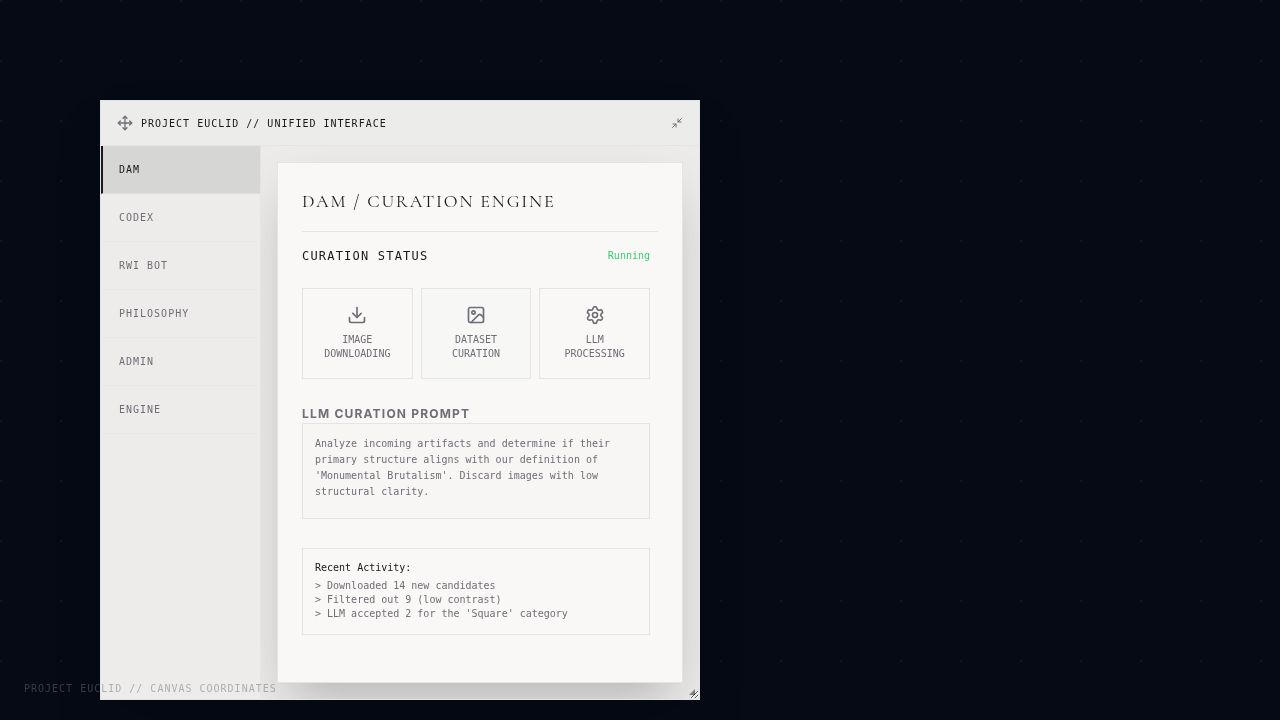
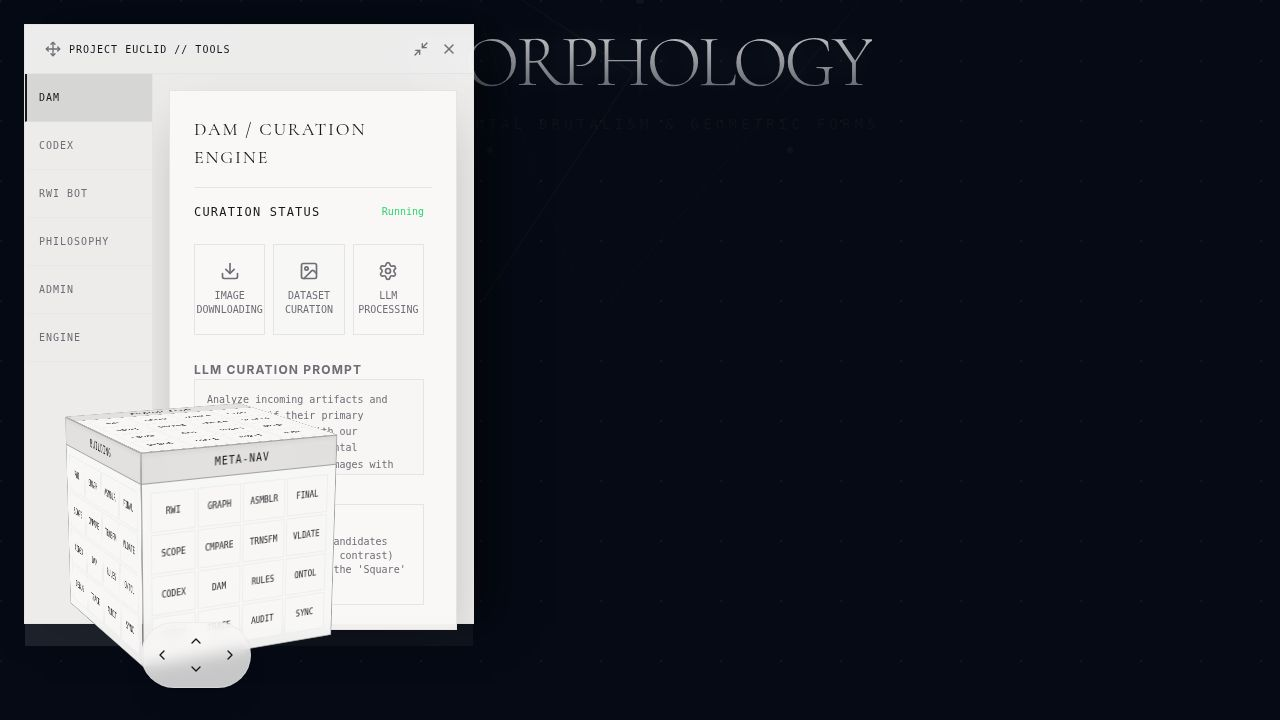
Introduce a 3D prism for tool selection and a dock for output display
Replace the static CentralPanel with a 3D PrismCube component for workspace/tool selection and implement a DockContainer for displaying agent outputs, updating the InfiniteCanvas and studio state management accordingly.

Replit-Commit-Author: Agent
Replit-Commit-Session-Id: 0d00d434-be47-4a2b-b53d-cc99ae812125
Replit-Commit-Checkpoint-Type: full_checkpoint
Replit-Commit-Event-Id: 81c192f9-09c1-4802-bd40-0a1dae0036b8
Replit-Commit-Screenshot-Url: https://storage.googleapis.com/screenshot-production-us-central1/83ee72e2-2eb7-40ef-ab99-fc5b93d9bf2b/0d00d434-be47-4a2b-b53d-cc99ae812125/BEu81Bt
Replit-Helium-Checkpoint-Created: true

Changed region(s): [[0.0, 0.0306, 0.6875, 0.9778], [0.125, 0.7639, 0.1562, 0.825], [0.625, 0.0306, 0.6562, 0.0611]]

diff --git a/client/src/studio/prism/PrismCube.tsx b/client/src/studio/prism/PrismCube.tsx
@@ -1,0 +1,89 @@
+import { useState } from 'react';
+import { useStudioStore } from '../state/useStudioStore';
+import { ChevronLeft, ChevronRight, ChevronUp, ChevronDown } from 'lucide-react';
+
+export function PrismCube() {
+  const { prismContext, setPrismContext } = useStudioStore();
+  
+  // Track continuous rotation to avoid snapping back when angles pass 360
+  const [rotation, setRotation] = useState({ x: -15, y: 25 });
+
+  const handleRotate = (direction: 'left' | 'right' | 'up' | 'down') => {
+    if (direction === 'left') setRotation(r => ({ ...r, y: r.y - 90 }));
+    if (direction === 'right') setRotation(r => ({ ...r, y: r.y + 90 }));
+    if (direction === 'up') setRotation(r => ({ ...r, x: r.x + 90 }));
+    if (direction === 'down') setRotation(r => ({ ...r, x: r.x - 90 }));
+  };
+
+  const faces = [
+    { id: 'meta-navigation', label: 'Meta-Nav', transform: 'translateZ(100px)' },
+    { id: 'research-drafting', label: 'Research', transform: 'rotateY(90deg) translateZ(100px)' },
+    { id: 'drafting-building', label: 'Drafting', transform: 'rotateY(180deg) translateZ(100px)' },
+    { id: 'building-production', label: 'Building', transform: 'rotateY(-90deg) translateZ(100px)' },
+    { id: 'production-final', label: 'Production', transform: 'rotateX(90deg) translateZ(100px)' },
+    { id: 'inspect-repair-debug', label: 'Debug', transform: 'rotateX(-90deg) translateZ(100px)' },
+  ];
+
+  // Tool sets (engines x functionalities) mapping to the 16 cubies
+  // E.g., RWI Bot, Codex, Assembler, etc.
+  const tools = [
+    "RWI", "Graph", "Asmblr", "Final",
+    "Scope", "Cmpare", "Trnsfm", "Vldate",
+    "Codex", "DAM", "Rules", "Ontol",
+    "Debug", "Trace", "Audit", "Sync"
+  ];
+
+  return (
+    <div 
+      className="fixed bottom-32 left-24 z-50 pointer-events-auto"
+      style={{ perspective: '1200px' }}
+    >
+      <div 
+        className="w-[200px] h-[200px] relative transition-transform duration-700 ease-out"
+        style={{ 
+          transformStyle: 'preserve-3d',
+          transform: `rotateX(${rotation.x}deg) rotateY(${rotation.y}deg)`
+        }}
+      >
+        {faces.map((face) => (
+          <div 
+            key={face.id}
+            className="absolute w-full h-full bg-background/95 border border-primary/40 backdrop-blur-md flex flex-col overflow-hidden shadow-[0_0_30px_rgba(var(--primary),0.1)]"
+            style={{ 
+              transform: face.transform,
+              backfaceVisibility: 'hidden'
+            }}
+          >
+            {/* Face Header */}
+            <div className="text-center font-mono text-[10px] uppercase tracking-widest text-primary bg-primary/10 border-b border-primary/30 py-1.5 shadow-inner">
+              {face.label}
+            </div>
+            
+            {/* 16 Cubies (4x4 Grid) */}
+            <div className="grid grid-cols-4 grid-rows-4 gap-[2px] flex-1 p-2 bg-muted/20">
+              {tools.map((tool, i) => (
+                <button 
+                  key={i} 
+                  className="bg-background/80 hover:bg-primary hover:text-primary-foreground border border-border/50 flex items-center justify-center text-[8px] font-mono transition-all duration-200 uppercase"
+                  onClick={() => console.log(`Triggered ${tool} on ${face.label}`)}
+                >
+                  {tool}
+                </button>
+              ))}
+            </div>
+          </div>
+        ))}
+      </div>
+
+      {/* Orbit Controls */}
+      <div className="absolute -bottom-16 left-1/2 -translate-x-1/2 flex gap-2 bg-background/80 backdrop-blur-sm border border-border/50 p-1.5 rounded-full shadow-xl">
+        <button onClick={() => handleRotate('left')} className="p-1.5 text-primary hover:bg-primary/20 rounded-full transition-colors"><ChevronLeft className="w-4 h-4" /></button>
+        <div className="flex flex-col gap-1">
+          <button onClick={() => handleRotate('up')} className="p-1 text-primary hover:bg-primary/20 rounded-full transition-colors"><ChevronUp className="w-4 h-4" /></button>
+          <button onClick={() => handleRotate('down')} className="p-1 text-primary hover:bg-primary/20 rounded-full transition-colors"><ChevronDown className="w-4 h-4" /></button>
+        </div>
+        <button onClick={() => handleRotate('right')} className="p-1.5 text-primary hover:bg-primary/20 rounded-full transition-colors"><ChevronRight className="w-4 h-4" /></button>
+      </div>
+    </div>
+  );
+}

diff --git a/client/src/studio/dock/DockContainer.tsx b/client/src/studio/dock/DockContainer.tsx
@@ -1,0 +1,44 @@
+import { useStudioStore } from '../state/useStudioStore';
+
+export function DockContainer() {
+  const { isDockVisible, toggleDock } = useStudioStore();
+
+  if (!isDockVisible) {
+    return (
+      <button 
+        onClick={toggleDock}
+        className="fixed bottom-4 left-1/2 -translate-x-1/2 px-4 py-2 bg-background/80 backdrop-blur border border-border/50 font-mono text-[10px] uppercase tracking-widest text-muted-foreground hover:text-primary transition-colors z-40"
+      >
+        Dock
+      </button>
+    );
+  }
+
+  return (
+    <div className="fixed bottom-0 left-0 right-0 h-48 bg-background/90 backdrop-blur-md border-t border-primary/20 z-40 flex flex-col pointer-events-auto transform transition-transform duration-300">
+      <div className="flex justify-between items-center px-4 py-2 border-b border-border/30">
+        <div className="font-mono text-[10px] uppercase tracking-widest text-primary/70">
+          Dock Viewer
+        </div>
+        <button 
+          onClick={toggleDock}
+          className="text-muted-foreground hover:text-primary transition-colors text-[10px] font-mono uppercase"
+        >
+          [Close]
+        </button>
+      </div>
+      <div className="flex-1 p-4 flex gap-4 overflow-x-auto">
+        {/* Placeholder for dock items/spawned content */}
+        <div className="h-full w-64 border border-dashed border-primary/20 flex items-center justify-center text-[10px] font-mono text-muted-foreground shrink-0">
+          [Empty Slot]
+        </div>
+        <div className="h-full w-64 border border-dashed border-primary/20 flex items-center justify-center text-[10px] font-mono text-muted-foreground shrink-0">
+          [Empty Slot]
+        </div>
+        <div className="h-full w-64 border border-dashed border-primary/20 flex items-center justify-center text-[10px] font-mono text-muted-foreground shrink-0">
+          [Empty Slot]
+        </div>
+      </div>
+    </div>
+  );
+}

diff --git a/client/src/components/canvas/InfiniteCanvas.tsx b/client/src/components/canvas/InfiniteCanvas.tsx
@@ -1,8 +1,8 @@
 import { useRef, useEffect, useState } from 'react';
 import { useSpring, animated } from '@react-spring/web';
 import { useGesture } from '@use-gesture/react';
-import { CentralPanel } from './panels/CentralPanel';
-import { PrismSelector } from '../../studio/prism/PrismSelector';
+import { PrismCube } from '../../studio/prism/PrismCube';
+import { DockContainer } from '../../studio/dock/DockContainer';
 
 export default function InfiniteCanvas() {
   const containerRef = useRef<HTMLDivElement>(null);
@@ -96,12 +96,16 @@ export default function InfiniteCanvas() {
         </div>
       </animated.div>
       
-      {/* Side Panel for Tools */}
-      <CentralPanel />
+      {/* 3D Prism Context Selector */}
+      <PrismCube />
       
-      {/* Bottom Left Prism Context Selector */}
-      <PrismSelector />
+      {/* Bottom Dock Tray */}
+      <DockContainer />
       
+      {/* Absolute HUD */}
+      <div className="fixed top-6 left-6 font-mono text-[10px] text-muted-foreground/50 uppercase tracking-widest pointer-events-none">
+        Project EUCLID // Spatial Room
+      </div>
     </div>
   );
 }

diff --git a/client/src/studio/state/useStudioStore.ts b/client/src/studio/state/useStudioStore.ts
@@ -13,6 +13,8 @@ export interface PrismContext {
 export interface StudioState {
   prismContext: PrismContext;
   setPrismContext: (context: Partial<PrismContext>) => void;
+  isDockVisible: boolean;
+  toggleDock: () => void;
 }
 
 export const useStudioStore = create<StudioState>((set) => ({
@@ -25,4 +27,6 @@ export const useStudioStore = create<StudioState>((set) => ({
     set((state) => ({ 
       prismContext: { ...state.prismContext, ...context } 
     })),
+  isDockVisible: true,
+  toggleDock: () => set((state) => ({ isDockVisible: !state.isDockVisible })),
 }));
